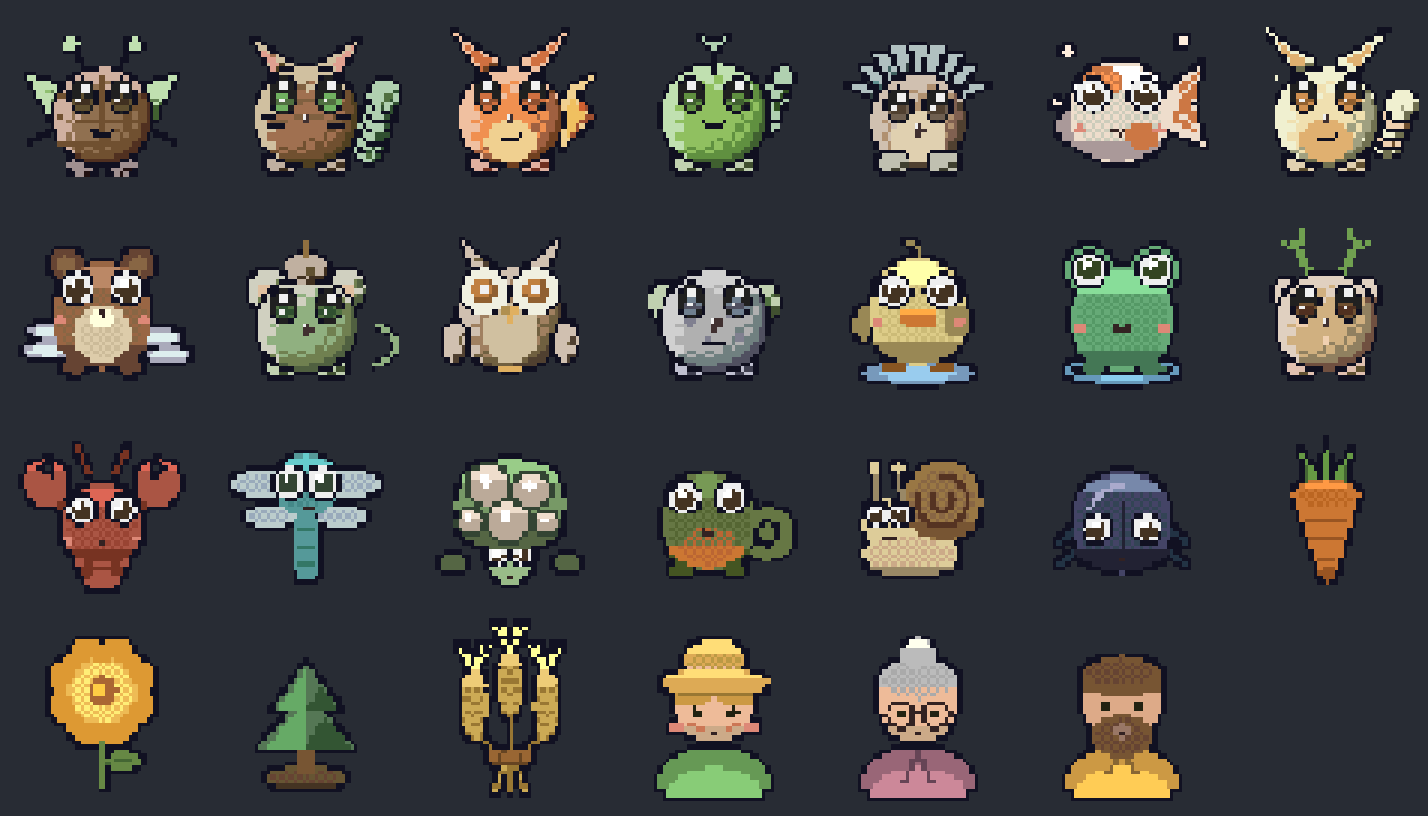
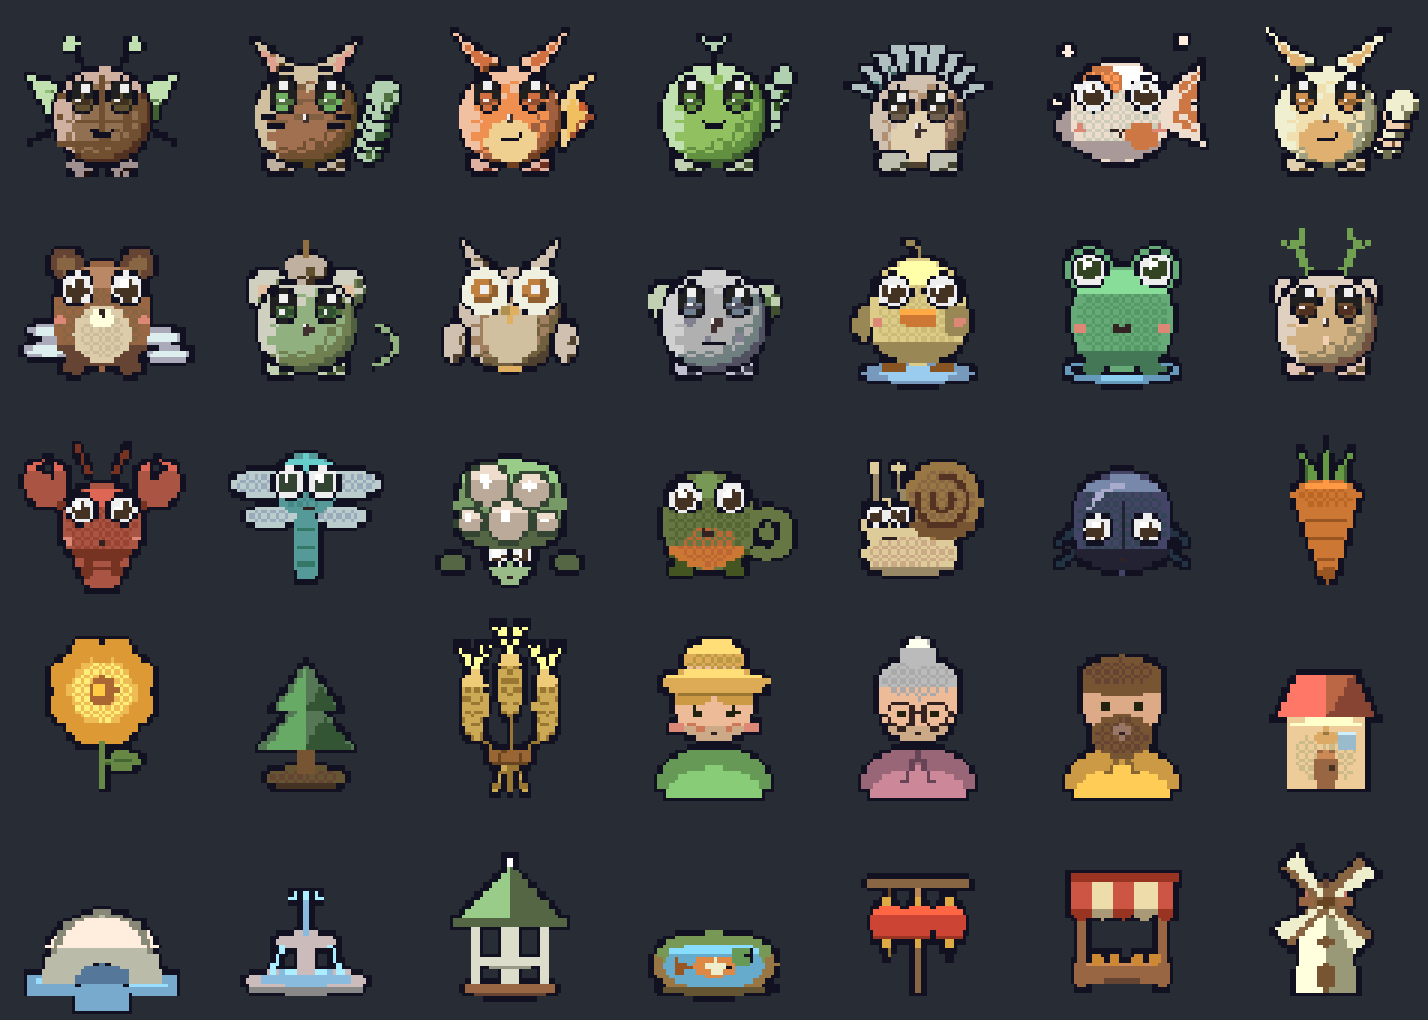
feat(art): 8 landmark sprites (16-bit gen pipeline) + LANDMARK_SPRITES registry

diff --git a/src/ui/sprites.ts b/src/ui/sprites.ts
@@ -1,5 +1,5 @@
 import type { ImageSourcePropType } from 'react-native';
-import type { SpeciesId, PetId, CropId } from '../engine/types';
+import type { SpeciesId, PetId, CropId, LandmarkId } from '../engine/types';
 
 /**
  * Creature sprite registry. One line per landed PNG; a species absent here
@@ -49,4 +49,16 @@ export const VILLAGER_SPRITES: Partial<Record<string, ImageSourcePropType>> = {
   'vil-1': require('../../assets/villagers/vil-1.png'),
   'vil-2': require('../../assets/villagers/vil-2.png'),
   'vil-3': require('../../assets/villagers/vil-3.png'),
+};
+
+/** Landmark building sprites (Plan 10). Every entry must point at a file that EXISTS. */
+export const LANDMARK_SPRITES: Partial<Record<LandmarkId, ImageSourcePropType>> = {
+  bakery: require('../../assets/landmarks/bakery.png'),
+  fountain: require('../../assets/landmarks/fountain.png'),
+  lanterns: require('../../assets/landmarks/lanterns.png'),
+  bridge: require('../../assets/landmarks/bridge.png'),
+  gazebo: require('../../assets/landmarks/gazebo.png'),
+  market: require('../../assets/landmarks/market.png'),
+  koipond: require('../../assets/landmarks/koipond.png'),
+  windmill: require('../../assets/landmarks/windmill.png'),
 };

diff --git a/scripts/gen-sprites.py b/scripts/gen-sprites.py
@@ -580,6 +580,222 @@ def draw_vil_3():  # Rowan — brown beard, tousled hair, mustard tunic
     return outline(img)
 
 
+# ---------------------------------------------------- landmarks (8)
+
+def draw_bakery():
+    img, d = canvas()
+    W = (226, 200, 156)   # cream wall
+    R = (190, 98, 76)     # red-brown roof
+    DR = (150, 104, 64)   # wood door
+    GL = (150, 182, 202)  # window glass
+    L = (214, 168, 96)    # bread-loaf sign
+    # wall
+    d.rectangle([156, 262, 356, 452], fill=band(W, 1))
+    checker(d, [172, 300, 340, 440], band(W, 't'))
+    d.chord([158, 264, 354, 340], 195, 345, fill=band(W, 0))
+    # pitched roof, overhanging the wall
+    d.polygon([(120, 268), (392, 268), (330, 150), (182, 150)], fill=band(R, 1))
+    d.polygon([(120, 268), (256, 268), (256, 150), (182, 150)], fill=band(R, 0))
+    d.polygon([(256, 268), (392, 268), (330, 150)], fill=band(R, 2))
+    # door
+    d.rounded_rectangle([224, 350, 286, 452], radius=28, fill=band(DR, 1))
+    d.chord([226, 352, 284, 410], 195, 345, fill=band(DR, 0))
+    d.ellipse([272, 398, 284, 410], fill=band(DR, 3))   # knob
+    # window with a top-lit pane
+    d.rounded_rectangle([288, 300, 342, 352], radius=10, fill=band(GL, 1))
+    d.chord([290, 302, 340, 328], 195, 345, fill=band(GL, 0))
+    # round loaf sign over the door
+    d.ellipse([224, 296, 288, 340], fill=band(L, 1))
+    d.arc([234, 304, 278, 332], 200, 340, fill=band(L, 2), width=7)
+    return outline(img)
+
+
+def draw_fountain():
+    img, d = canvas()
+    S = (192, 190, 182)   # stone
+    WA = (128, 178, 208)  # water
+    # lower basin
+    d.ellipse([96, 392, 416, 460], fill=band(S, 1))
+    d.chord([100, 420, 412, 460], 15, 165, fill=band(S, 2))
+    # water pooled in the basin
+    d.ellipse([132, 398, 380, 438], fill=band(WA, 1))
+    d.chord([140, 400, 372, 424], 195, 345, fill=band(WA, 0))
+    # pedestal
+    d.rectangle([232, 300, 280, 404], fill=band(S, 1))
+    d.chord([234, 302, 278, 340], 195, 345, fill=band(S, 0))
+    # upper bowl
+    d.ellipse([176, 294, 336, 340], fill=band(S, 1))
+    d.chord([180, 320, 332, 342], 15, 165, fill=band(S, 2))
+    # water plume rising up the centre
+    d.rounded_rectangle([244, 206, 268, 306], radius=12, fill=band(WA, 1))
+    for dxp in (-30, 0, 30):
+        d.ellipse([256 + dxp - 11, 188, 256 + dxp + 11, 214], fill=band(WA, 0))
+    # streams falling from the upper bowl into the basin
+    for sx in (-1, 1):
+        d.line([256 + sx * 64, 328, 256 + sx * 92, 404],
+               fill=band(WA, 0), width=12)
+    return outline(img)
+
+
+def draw_lanterns():
+    img, d = canvas()
+    B = (140, 100, 64)    # wood post + bar
+    R = (206, 74, 58)     # red paper lantern
+    G = (216, 170, 78)    # gold cap + tassel
+    # ground post
+    d.rectangle([244, 168, 268, 452], fill=band(B, 1))
+    d.chord([246, 170, 266, 260], 195, 345, fill=band(B, 0))
+    # crossbar
+    d.rounded_rectangle([120, 150, 392, 178], radius=12, fill=band(B, 1))
+    d.chord([122, 150, 390, 168], 195, 345, fill=band(B, 0))
+    # three hanging lanterns
+    for lx in (176, 256, 336):
+        d.line([lx, 178, lx, 212], fill=band(B, 2), width=8)      # cord
+        d.ellipse([lx - 12, 198, lx + 12, 222], fill=band(G, 1))  # top cap
+        d.ellipse([lx - 46, 216, lx + 46, 320], fill=band(R, 1))  # body
+        d.chord([lx - 44, 218, lx + 44, 284], 195, 345, fill=band(R, 0))
+        d.chord([lx - 42, 286, lx + 42, 318], 15, 165, fill=band(R, 2))
+        d.line([lx - 30, 268, lx + 30, 268], fill=band(R, 2), width=6)  # rib
+        d.ellipse([lx - 12, 314, lx + 12, 338], fill=band(G, 1))  # bottom cap
+        d.line([lx, 336, lx, 364], fill=band(G, 2), width=8)      # tassel
+    return outline(img)
+
+
+def draw_bridge():
+    img, d = canvas()
+    S = (186, 178, 164)   # stone
+    WA = (120, 170, 202)  # water
+    # water flowing behind
+    d.rectangle([56, 402, 456, 460], fill=band(WA, 1))
+    d.line([84, 420, 200, 420], fill=band(WA, 0), width=8)
+    d.line([318, 434, 428, 434], fill=band(WA, 0), width=8)
+    # stone hump
+    d.pieslice([96, 250, 416, 610], 180, 360, fill=band(S, 1))
+    d.chord([104, 252, 408, 470], 195, 345, fill=band(S, 0))
+    # arch opening cut through, water + shadow under it
+    d.pieslice([176, 372, 336, 640], 180, 360, fill=(0, 0, 0, 0))
+    d.pieslice([182, 378, 330, 628], 180, 360, fill=band(WA, 1))
+    d.chord([182, 378, 330, 470], 180, 360, fill=band(WA, 2))
+    # railing coping + balusters along the crown
+    d.arc([112, 236, 400, 566], 200, 340, fill=band(S, 2), width=14)
+    for bx, by in ((160, 300), (208, 272), (256, 264), (304, 272), (352, 300)):
+        d.line([bx, by, bx, by - 30], fill=band(S, 2), width=9)
+    return outline(img)
+
+
+def draw_gazebo():
+    img, d = canvas()
+    P = (222, 214, 198)   # cream posts + rail
+    RF = (120, 152, 108)  # green roof
+    WD = (150, 110, 72)   # wood floor
+    # floor platform
+    d.ellipse([132, 424, 380, 462], fill=band(WD, 1))
+    d.chord([136, 442, 376, 462], 15, 165, fill=band(WD, 2))
+    # posts
+    for px0 in (168, 240, 272, 344):
+        d.rectangle([px0 - 11, 250, px0 + 11, 432], fill=band(P, 1))
+        d.chord([px0 - 11, 252, px0 + 11, 300], 195, 345, fill=band(P, 0))
+    # balustrade
+    d.rectangle([168, 360, 344, 388], fill=band(P, 1))
+    d.chord([170, 378, 342, 390], 15, 165, fill=band(P, 2))
+    # conical roof
+    d.polygon([(112, 262), (400, 262), (256, 116)], fill=band(RF, 1))
+    d.polygon([(112, 262), (256, 262), (256, 116)], fill=band(RF, 0))
+    d.polygon([(256, 262), (400, 262), (256, 116)], fill=band(RF, 2))
+    d.rounded_rectangle([104, 256, 408, 284], radius=12, fill=band(RF, 2))  # eave
+    d.ellipse([242, 92, 270, 120], fill=band(P, 0))   # finial
+    return outline(img)
+
+
+def draw_market():
+    img, d = canvas()
+    WD = (150, 110, 70)   # wood posts + counter
+    RS = (202, 82, 66)    # red awning stripe
+    CS = (226, 208, 170)  # cream awning stripe
+    F = (196, 132, 60)    # goods
+    # posts
+    for px0 in (150, 362):
+        d.rectangle([px0 - 12, 210, px0 + 12, 440], fill=band(WD, 1))
+        d.chord([px0 - 12, 212, px0 + 12, 262], 195, 345, fill=band(WD, 0))
+    # counter
+    d.rectangle([132, 372, 380, 424], fill=band(WD, 1))
+    d.chord([134, 374, 378, 398], 195, 345, fill=band(WD, 0))
+    d.chord([136, 410, 378, 424], 15, 165, fill=band(WD, 2))
+    # striped awning + scalloped edge
+    stripes = [(120, 176), (176, 232), (232, 288), (288, 344), (344, 400)]
+    for i, (xa, xb) in enumerate(stripes):
+        col = RS if i % 2 == 0 else CS
+        d.polygon([(xa, 150), (xb, 150), (xb, 236), (xa, 236)], fill=band(col, 1))
+        d.pieslice([xa, 214, xb, 262], 0, 180, fill=band(col, 2))
+    d.rounded_rectangle([112, 142, 408, 166], radius=10, fill=band(RS, 2))  # ridge
+    # goods on the counter
+    for gx in (188, 232, 300, 340):
+        d.ellipse([gx - 16, 346, gx + 16, 380], fill=band(F, 1))
+    return outline(img)
+
+
+def draw_koipond():
+    img, d = canvas()
+    RM = (150, 118, 78)   # earth rim
+    G = (120, 158, 92)    # grassy edge
+    WA = (108, 164, 200)  # water
+    O = (222, 132, 66)    # koi orange
+    C = (232, 224, 206)   # koi cream / patch
+    LP = (96, 150, 88)    # lily pad
+    # earth rim + grassy top edge
+    d.ellipse([88, 300, 424, 462], fill=band(RM, 1))
+    d.chord([92, 402, 420, 462], 15, 165, fill=band(RM, 2))
+    d.ellipse([104, 296, 408, 396], fill=band(G, 1))
+    # water
+    d.ellipse([120, 320, 392, 446], fill=band(WA, 1))
+    d.chord([128, 322, 384, 392], 195, 345, fill=band(WA, 0))
+    # koi fish
+    d.polygon([(198, 386), (150, 360), (152, 412)], fill=band(O, 2))  # tail
+    d.ellipse([196, 356, 316, 416], fill=band(O, 1))
+    d.ellipse([232, 366, 288, 406], fill=band(C, 1))   # cream patch
+    d.ellipse([292, 378, 308, 394], fill=OUTLINE)      # eye
+    # ripple
+    d.arc([300, 328, 372, 372], 200, 340, fill=band(WA, 0), width=7)
+    # lily pad with a notch
+    d.ellipse([300, 334, 360, 380], fill=band(LP, 1))
+    d.polygon([(330, 357), (362, 338), (358, 374)], fill=(0, 0, 0, 0))
+    return outline(img)
+
+
+def draw_windmill():
+    img, d = canvas()
+    T = (216, 200, 168)   # tower
+    CAP = (150, 96, 76)   # cap roof
+    WD = (140, 100, 64)   # sail wood + hub
+    CL = (232, 224, 204)  # sail cloth
+    DR = (120, 86, 56)    # door + window
+    # tapered tower
+    d.polygon([(196, 236), (316, 236), (338, 452), (174, 452)], fill=band(T, 1))
+    d.polygon([(196, 236), (256, 236), (256, 452), (174, 452)], fill=band(T, 0))
+    d.polygon([(256, 236), (316, 236), (338, 452), (256, 452)], fill=band(T, 2))
+    # cap
+    d.chord([182, 176, 330, 268], 180, 360, fill=band(CAP, 1))
+    d.chord([186, 178, 326, 232], 195, 345, fill=band(CAP, 0))
+    d.ellipse([248, 150, 264, 182], fill=band(CAP, 2))   # finial
+    # door + window
+    d.rounded_rectangle([234, 372, 278, 452], radius=20, fill=band(DR, 1))
+    d.ellipse([238, 300, 274, 336], fill=band(DR, 1))
+    # four-blade sail cross
+    hx, hy = 256, 214
+    L, w = 150, 20
+    for ang in (45, 135, 225, 315):
+        a = math.radians(ang)
+        ex, ey = hx + L * math.cos(a), hy + L * math.sin(a)
+        px = math.cos(a + math.pi / 2) * w
+        py = math.sin(a + math.pi / 2) * w
+        d.polygon([(hx + px, hy + py), (hx - px, hy - py),
+                   (ex - px, ey - py), (ex + px, ey + py)], fill=band(WD, 1))
+        d.polygon([(hx, hy), (ex, ey),
+                   (ex + px * 2.4, ey + py * 2.4)], fill=band(CL, 1))  # cloth
+    d.ellipse([236, 194, 276, 234], fill=band(WD, 2))   # hub
+    return outline(img)
+
+
 # ------------------------------------------------------------- driver
 
 SPRITES = {
@@ -608,6 +824,16 @@ SPRITES = {
         'vil-2': draw_vil_2,
         'vil-3': draw_vil_3,
     }},
+    'landmarks': {'dir': 'landmarks', 'draw': {
+        'bakery': draw_bakery,
+        'fountain': draw_fountain,
+        'lanterns': draw_lanterns,
+        'bridge': draw_bridge,
+        'gazebo': draw_gazebo,
+        'market': draw_market,
+        'koipond': draw_koipond,
+        'windmill': draw_windmill,
+    }},
 }
 
 
@@ -615,7 +841,8 @@ def contact_sheet():
     files = sorted((ROOT / 'assets').glob('creatures/*.png')) + \
             sorted((ROOT / 'assets').glob('pets/*.png')) + \
             sorted((ROOT / 'assets').glob('crops/*.png')) + \
-            sorted((ROOT / 'assets').glob('villagers/*.png'))
+            sorted((ROOT / 'assets').glob('villagers/*.png')) + \
+            sorted((ROOT / 'assets').glob('landmarks/*.png'))
     cols = 7
     rows = (len(files) + cols - 1) // cols
     sheet = Image.new('RGBA', (cols * 68, rows * 68), (40, 44, 52, 255))